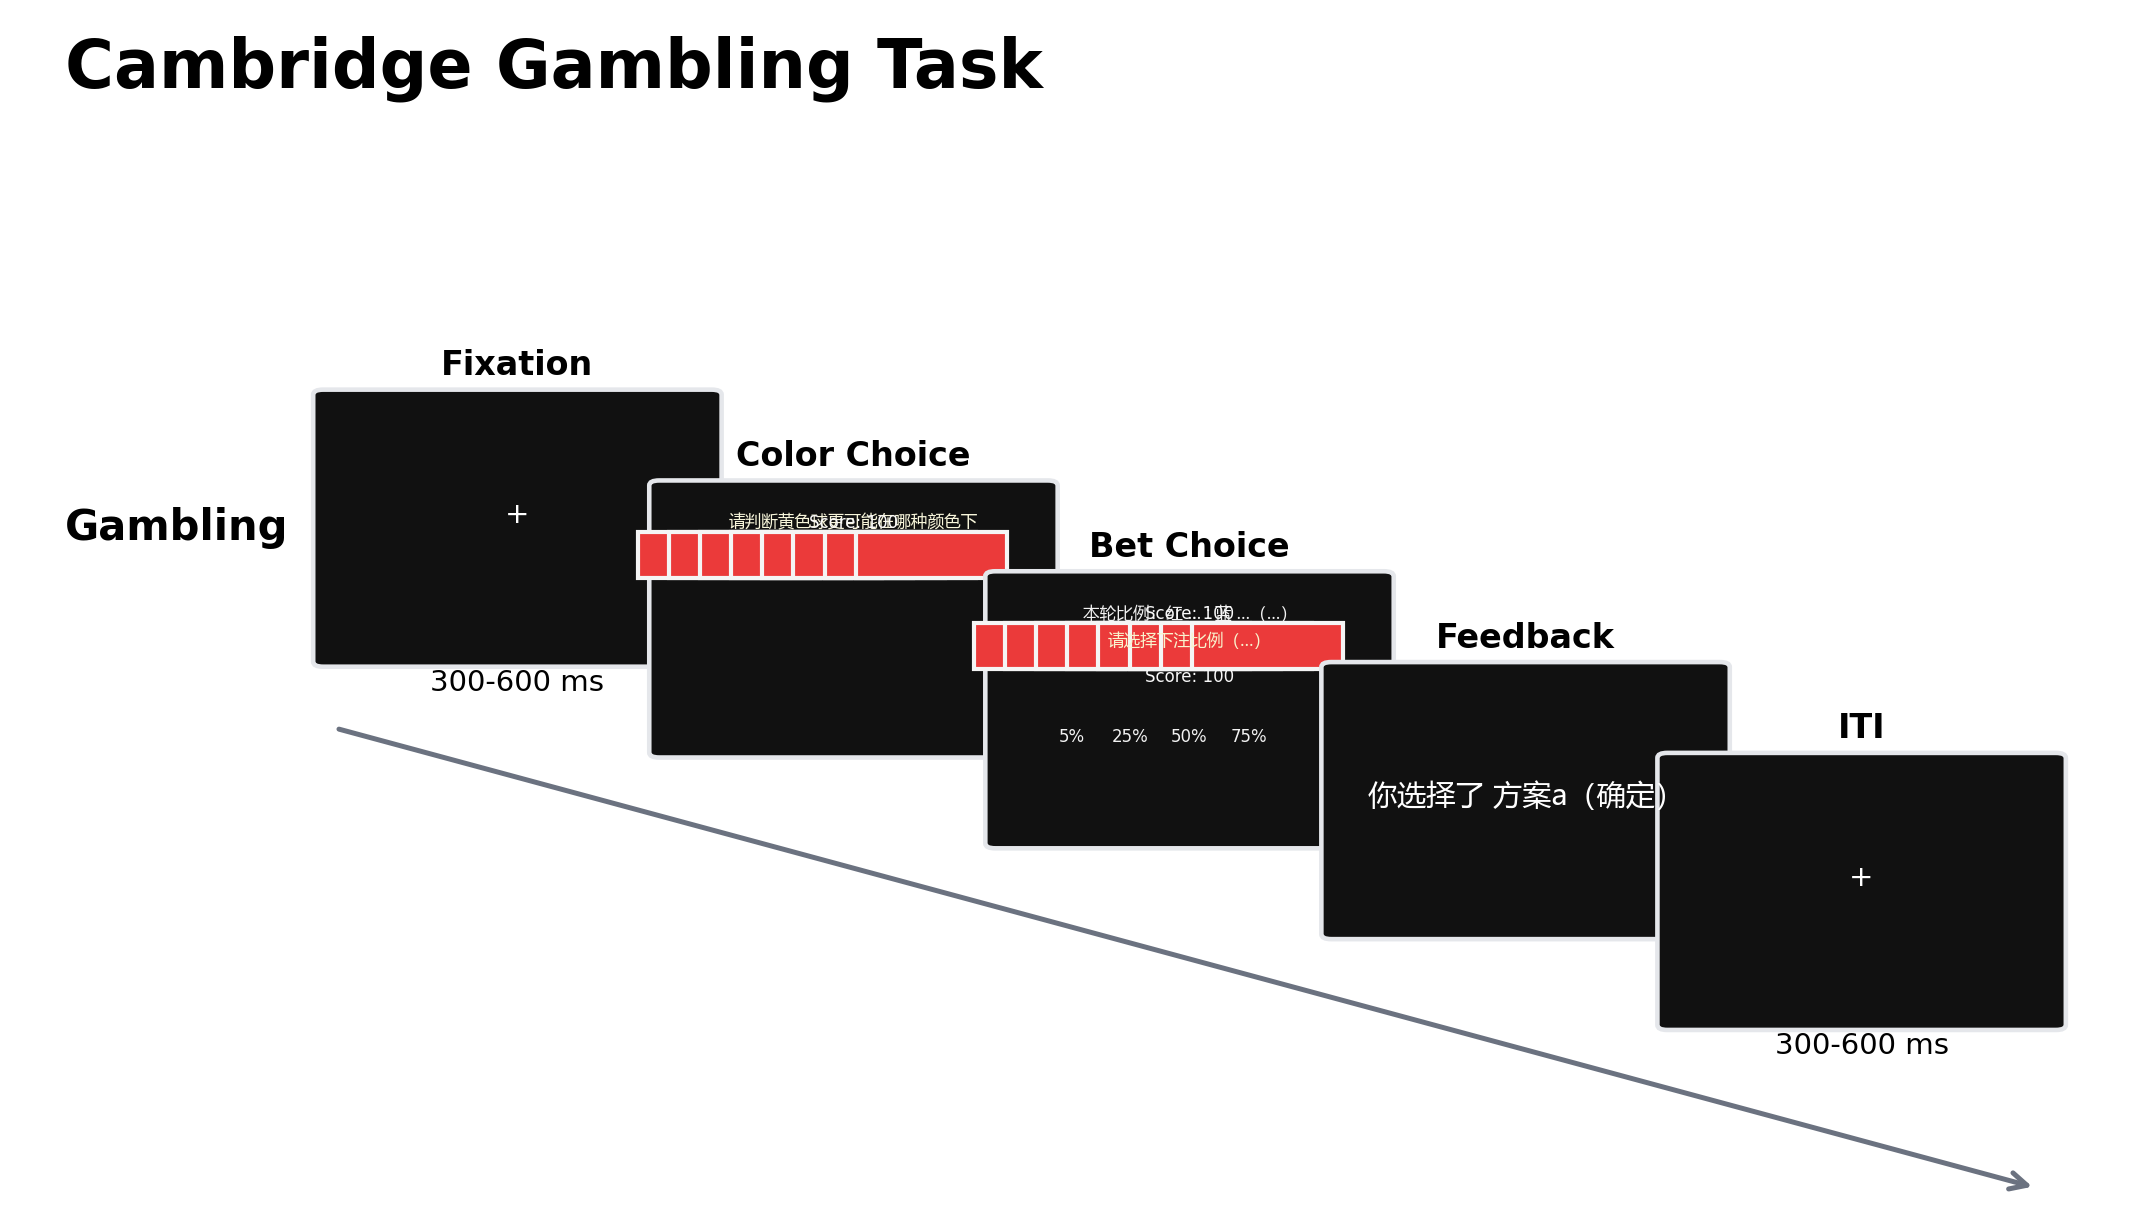
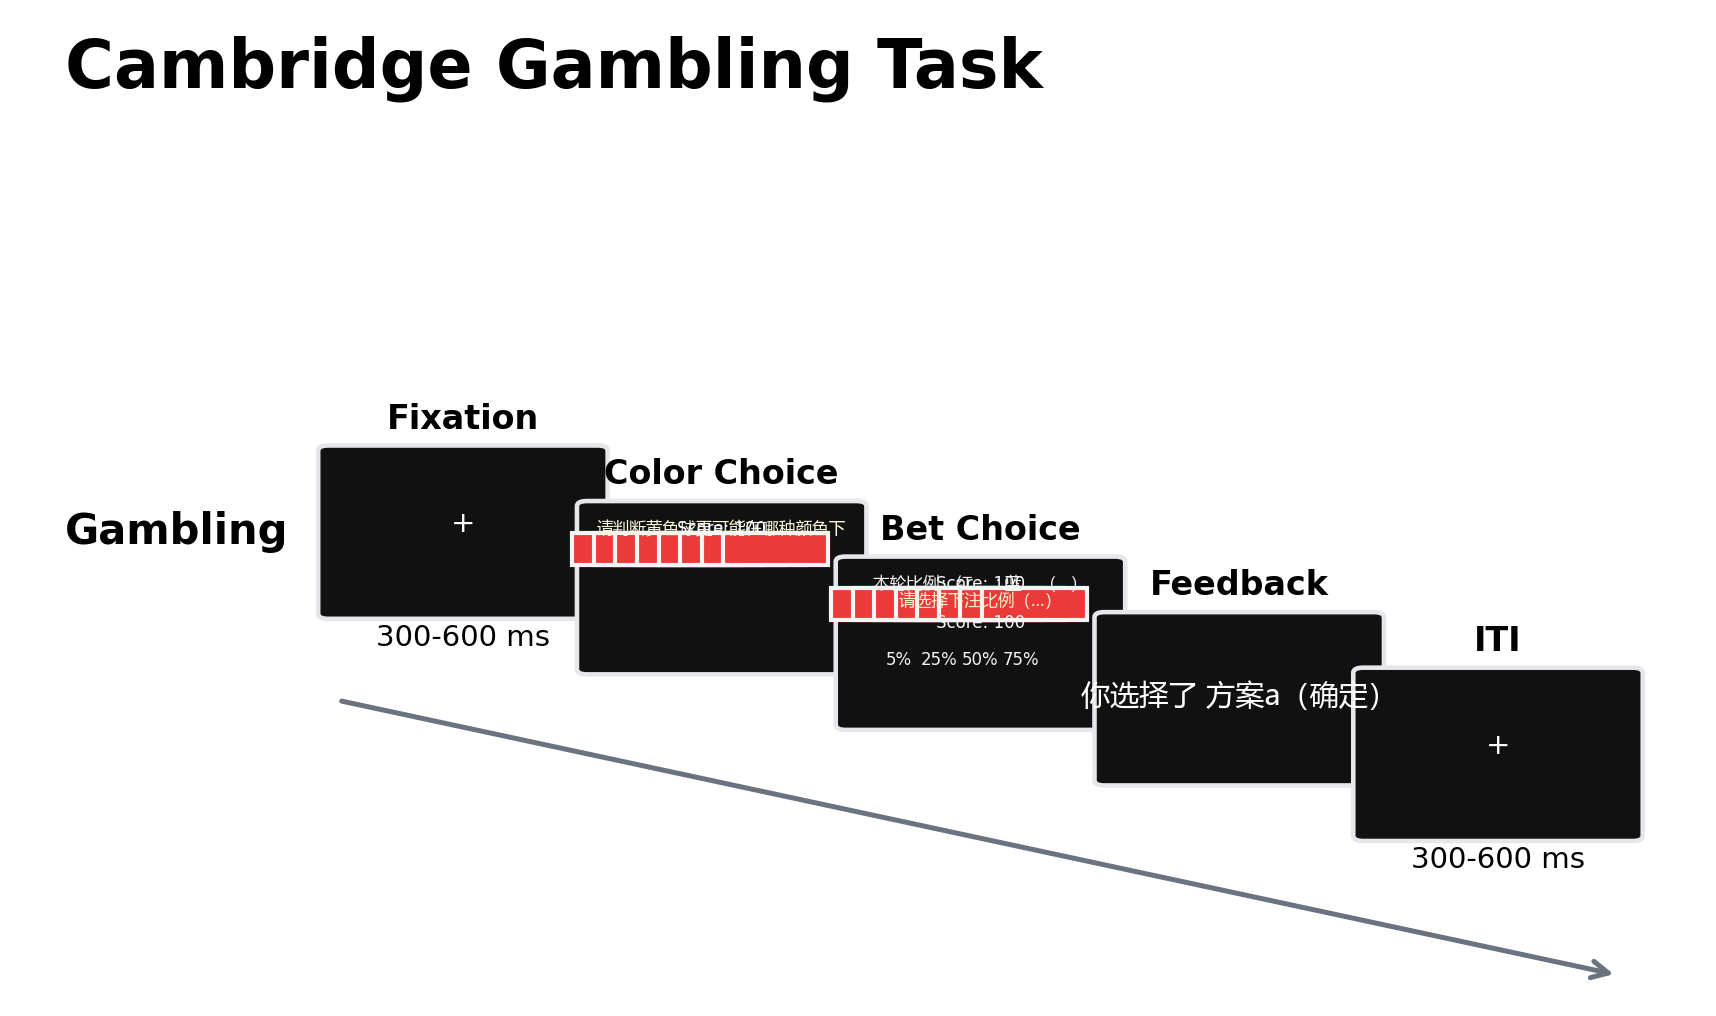
Redesign CGT task flow layout

diff --git a/references/task_plot_audit.md b/references/task_plot_audit.md
@@ -1,6 +1,6 @@
 # Task Plot Audit
 
-- generated_at: 2026-03-19T08:37:11
+- generated_at: 2026-03-19T09:19:27
 - mode: existing
 - task_path: E:\xhmhc\TaskBeacon\T000029-cambridge-gambling
 
@@ -48,17 +48,17 @@
 - output_file: task_flow.png
 - dpi: 300
 - max_conditions: 3
-- screens_per_timeline: 6
-- screen_overlap_ratio: 0.1
+- screens_per_timeline: 5
+- screen_overlap_ratio: 0.0
 - screen_slope: 0.08
-- screen_slope_deg: 25.0
-- screen_aspect_ratio: 1.4545454545454546
+- screen_slope_deg: 34.0
+- screen_aspect_ratio: 1.65
 - qa_mode: local
 - auto_layout_feedback:
-  - layout pass 1: crop-only; left=0.031, right=0.033, blank=0.119
+  - layout pass 1: crop-only; left=0.039, right=0.041, blank=0.146
 - auto_layout_feedback_records:
   - pass: 1
-    metrics: {'left_ratio': 0.0313, 'right_ratio': 0.0332, 'blank_ratio': 0.1194}
+    metrics: {'left_ratio': 0.039, 'right_ratio': 0.0414, 'blank_ratio': 0.1456}
 - validator_warnings:
   - timelines[0].phases[1] missing duration_ms; renderer will annotate as n/a.
   - timelines[0].phases[2] missing duration_ms; renderer will annotate as n/a.
@@ -66,10 +66,10 @@
 
 ## 7. Output files and checksums
 
-- E:\xhmhc\TaskBeacon\T000029-cambridge-gambling\references\task_plot_spec.yaml: sha256=0539a411c17466cffd0a43da970966c546746dd5c30d0d4bd2b3e5e3684860c4
-- E:\xhmhc\TaskBeacon\T000029-cambridge-gambling\references\task_plot_spec.json: sha256=bd920065a3ce5a9bdec66ceefc634c6b8d47c37f97c051351b3ead2c97742217
+- E:\xhmhc\TaskBeacon\T000029-cambridge-gambling\references\task_plot_spec.yaml: sha256=8e02061a27a816a3e23d09a167e9cc2de28219fdf78d982122fd49b6b4a2aaef
+- E:\xhmhc\TaskBeacon\T000029-cambridge-gambling\references\task_plot_spec.json: sha256=1d84587a3ea71656e45103d04fdd1f199dfd090a03a8a81f3324cc74b65fbde7
 - E:\xhmhc\TaskBeacon\T000029-cambridge-gambling\references\task_plot_source_excerpt.md: sha256=2dff4466dd3d8064e4c96b38a6b59234451ad6c25ef8bfaa652877904d9f8288
-- E:\xhmhc\TaskBeacon\T000029-cambridge-gambling\task_flow.png: sha256=eb7fd8f3abdac175869deb3c7f307ab8bdb1c47f1e81ea04352efab3453cb3a9
+- E:\xhmhc\TaskBeacon\T000029-cambridge-gambling\task_flow.png: sha256=778e849d9002cd2e58b9344350d67bb56b124a7020841607994e4e4c4b987170
 
 ## 8. Inferred/uncertain items
 
